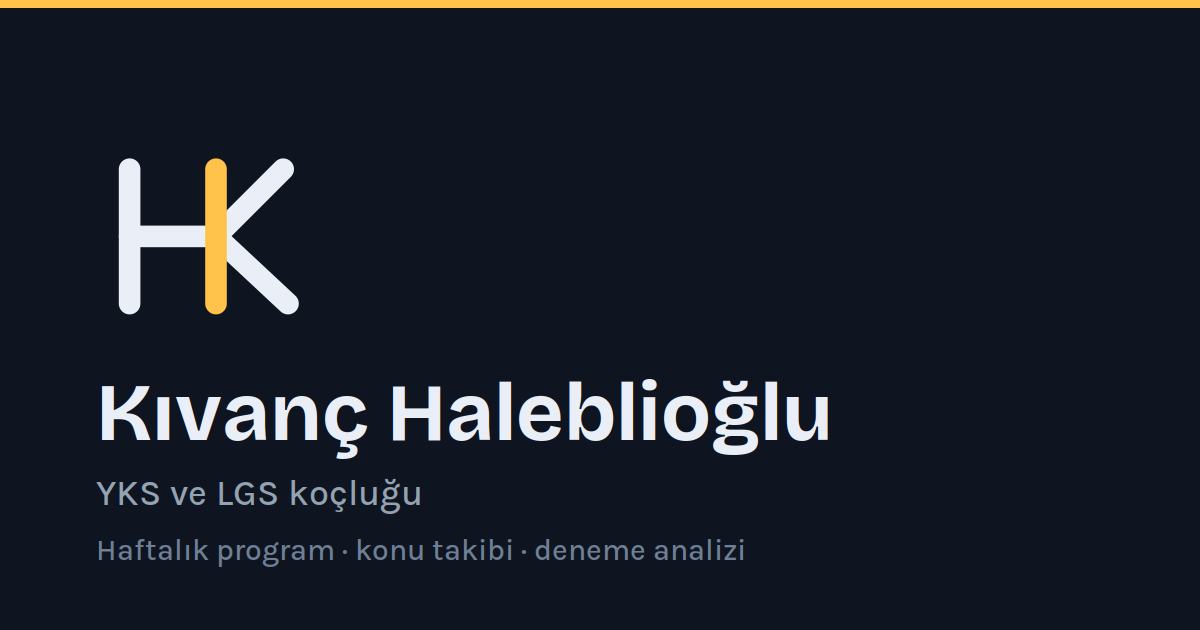
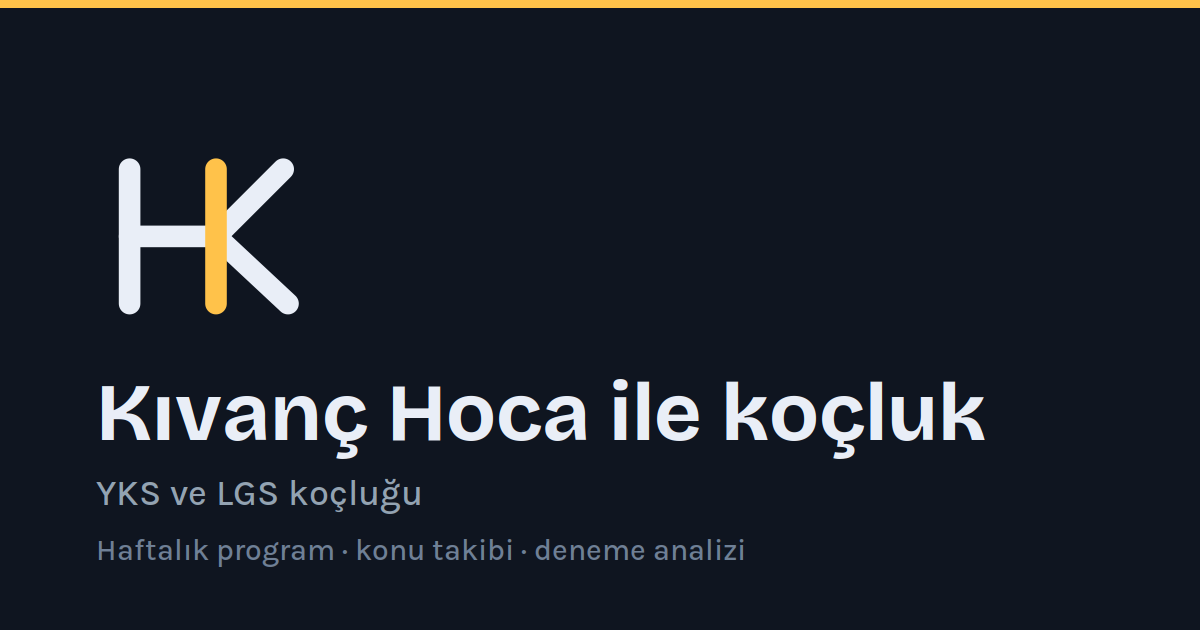
Halka açık marka adı: Kıvanç Hoca
Soyadı site, uygulama ve paylaşım yüzeylerinden kaldırıldı; yalnızca
sözleşme ve fatura gibi resmî yerlerde kullanılacak. Monogram aynı
kalıyor: Hoca ve Kıvanç yine H ile K veriyor.

Changed region(s): [[0.37, 0.6032, 0.8325, 0.7238]]

diff --git a/index.html b/index.html
@@ -13,17 +13,17 @@
       href="https://fonts.googleapis.com/css2?family=Bricolage+Grotesque:opsz,wght@12..96,500;12..96,700;12..96,800&family=Karla:wght@400;500;600;700&family=Archivo:wght@500;700;900&family=JetBrains+Mono:wght@400;500;700&display=swap&subset=latin,latin-ext"
       rel="stylesheet"
     />
-    <title>Kıvanç Haleblioğlu · YKS ve LGS Koçluğu</title>
+    <title>Kıvanç Hoca ile koçluk · YKS ve LGS</title>
 
     <!-- Paylaşım önizlemesi. WhatsApp ve Telegram mutlak adres ister, göreli
          yol ile görsel çıkmaz; bu yüzden tam URL yazılı. Alan adı değişirse
          buradaki dört satır da değişmeli. -->
     <link rel="canonical" href="https://khkocluk.com/" />
     <meta property="og:type" content="website" />
-    <meta property="og:site_name" content="Kıvanç Haleblioğlu" />
+    <meta property="og:site_name" content="Kıvanç Hoca ile koçluk" />
     <meta property="og:locale" content="tr_TR" />
     <meta property="og:url" content="https://khkocluk.com/" />
-    <meta property="og:title" content="Kıvanç Haleblioğlu · YKS ve LGS Koçluğu" />
+    <meta property="og:title" content="Kıvanç Hoca ile koçluk · YKS ve LGS" />
     <meta property="og:description" content="Haftalık program, konu takibi ve deneme analizi tek sistemde." />
     <meta property="og:image" content="https://khkocluk.com/og.png" />
     <meta property="og:image:width" content="1200" />

diff --git a/src/bilesenler/Marka.jsx b/src/bilesenler/Marka.jsx
@@ -8,7 +8,9 @@
  * Tek yerde durur ki üst şerit, giriş ekranı ve favicon aynı çizimi
  * paylaşsın; birinde yapılan düzeltme hepsinde geçerli olsun.
  *
- * Marka adı "HK" değildir. Adı "Kıvanç Haleblioğlu"; bu iki harf yalnızca
+ * Marka adı "HK" değildir. Adı "Kıvanç Hoca"; iki harf de oradan gelir
+ * (Hoca + Kıvanç). Soyadı halka açık yüzeylerde kullanılmaz; yalnızca
+ * sözleşme ve fatura gibi resmî yerlerde geçer. Bu iki harf yalnızca
  * ikondur ve daima ismin ya da bir başlığın yanında durur.
  */
 export function MarkaIsareti({ yukseklik = 20, sinif = '' }) {

diff --git a/src/ekranlar/Giris.jsx b/src/ekranlar/Giris.jsx
@@ -35,7 +35,7 @@ export default function Giris({ onGeri }) {
       <div className="giris-ust">
         <span className="giris-marka">
           <MarkaIsareti yukseklik={20} sinif="giris-marka-isaret" />
-          Kıvanç Haleblioğlu
+          Kıvanç Hoca
         </span>
         <span className="giris-marka-alt">YKS · LGS koçu</span>
       </div>

diff --git a/src/icerik/site.js b/src/icerik/site.js
@@ -20,7 +20,7 @@
 
 export const site = {
   koc: {
-    ad: 'Kıvanç Haleblioğlu',
+    ad: 'Kıvanç Hoca',
     unvan: 'YKS ve LGS Koçu',
 
     // Sayfanın ilk cümlesi. {} içindeki kelimeye fosforlu vurgu gelir.
